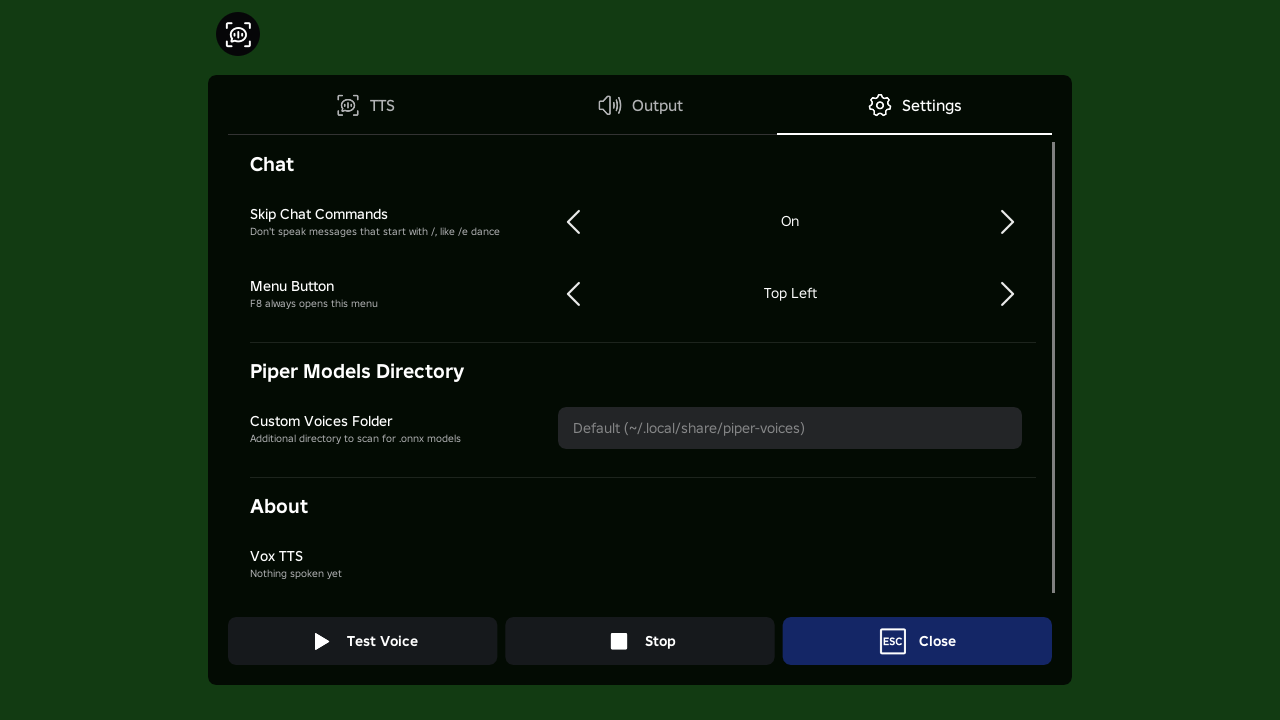
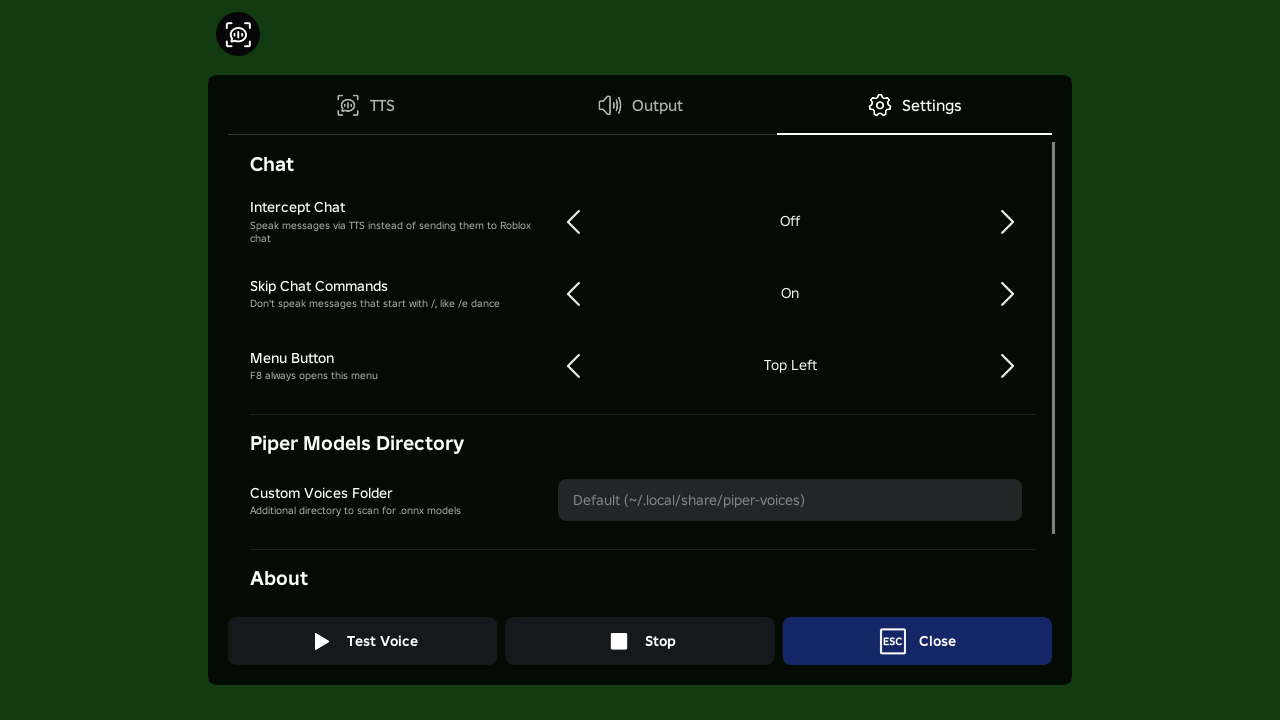
feat: add Intercept Chat option to speak via TTS without sending text

diff --git a/src/sdl_hooks.cc b/src/sdl_hooks.cc
@@ -40,28 +40,50 @@ void OnSent(const std::string& message) {
   Say(message);
 }
 
-void ObserveChat(const SDL_Event& e) {
+bool g_intercepting_return = false;
+
+void ObserveChat(SDL_Event& e) {
   if (!g_chat.active()) return;
   if (e.type == SDL_EVENT_TEXT_INPUT && e.text.text != nullptr) {
     g_chat.Text(e.text.text);
     return;
   }
-  if (e.type != SDL_EVENT_KEY_DOWN) return;
-  const bool ctrl = (e.key.mod & SDL_KMOD_CTRL) != 0;
-  std::optional<std::string> sent;
-  switch (e.key.key) {
-    case SDLK_RETURN:
-    case SDLK_KP_ENTER: sent = g_chat.Key(ChatKey::kReturn, ctrl); break;
-    case SDLK_ESCAPE: g_chat.Key(ChatKey::kEscape, ctrl); break;
-    case SDLK_BACKSPACE: g_chat.Key(ChatKey::kBackspace, ctrl); break;
-    case SDLK_DELETE: g_chat.Key(ChatKey::kDelete, ctrl); break;
-    case SDLK_LEFT: g_chat.Key(ChatKey::kLeft, ctrl); break;
-    case SDLK_RIGHT: g_chat.Key(ChatKey::kRight, ctrl); break;
-    case SDLK_HOME: g_chat.Key(ChatKey::kHome, ctrl); break;
-    case SDLK_END: g_chat.Key(ChatKey::kEnd, ctrl); break;
-    default: break;
+  if (e.type != SDL_EVENT_KEY_DOWN && e.type != SDL_EVENT_KEY_UP) return;
+
+  const Config cfg = GetConfig();
+
+  if (e.type == SDL_EVENT_KEY_DOWN) {
+    const bool ctrl = (e.key.mod & SDL_KMOD_CTRL) != 0;
+    std::optional<std::string> sent;
+    switch (e.key.key) {
+      case SDLK_RETURN:
+      case SDLK_KP_ENTER: sent = g_chat.Key(ChatKey::kReturn, ctrl); break;
+      case SDLK_ESCAPE: g_chat.Key(ChatKey::kEscape, ctrl); break;
+      case SDLK_BACKSPACE: g_chat.Key(ChatKey::kBackspace, ctrl); break;
+      case SDLK_DELETE: g_chat.Key(ChatKey::kDelete, ctrl); break;
+      case SDLK_LEFT: g_chat.Key(ChatKey::kLeft, ctrl); break;
+      case SDLK_RIGHT: g_chat.Key(ChatKey::kRight, ctrl); break;
+      case SDLK_HOME: g_chat.Key(ChatKey::kHome, ctrl); break;
+      case SDLK_END: g_chat.Key(ChatKey::kEnd, ctrl); break;
+      default: break;
+    }
+    if (sent) {
+      const bool is_command = cfg.skip_commands && !sent->empty() && (*sent)[0] == '/';
+      OnSent(*sent);
+      if (cfg.enabled && cfg.intercept_chat && !is_command) {
+        g_intercepting_return = true;
+        // Transform Return into Escape so Roblox discards the message instead of sending it to text chat
+        e.key.key = SDLK_ESCAPE;
+        e.key.scancode = SDL_SCANCODE_ESCAPE;
+      }
+    }
+  } else if (e.type == SDL_EVENT_KEY_UP) {
+    if (g_intercepting_return && (e.key.key == SDLK_RETURN || e.key.key == SDLK_KP_ENTER)) {
+      g_intercepting_return = false;
+      e.key.key = SDLK_ESCAPE;
+      e.key.scancode = SDL_SCANCODE_ESCAPE;
+    }
   }
-  if (sent) OnSent(*sent);
 }
 
 // ---------------------------------------------------------------------------
@@ -137,7 +159,7 @@ void TrackWindow(SDL_WindowID id) {
 }
 
 // Returns true when the event belongs to us and must not reach Nightcap.
-bool Filter(const SDL_Event& e) {
+bool Filter(SDL_Event& e) {
   switch (e.type) {
     case SDL_EVENT_KEY_DOWN:
     case SDL_EVENT_KEY_UP: TrackWindow(e.key.windowID); break;

diff --git a/tests/test_inprocess.py b/tests/test_inprocess.py
@@ -158,12 +158,12 @@ class OverlayTest(unittest.TestCase):
             self.assertGreater(tab_underline_y(early) or 10**6, tab_underline_y(settled))
 
 
-def capture(tmp: Path, keep_mic: bool, message="Hello there, how are you?", engine=None):
+def capture(tmp: Path, keep_mic: bool, message="Hello there, how are you?", engine=None, intercept_chat=False):
     # The mic plays a 300 Hz tone so "keep my microphone" is observable.
     tone = b"".join(struct.pack("<h", int(8000 * math.sin(2 * math.pi * 300 * i / 48000)))
                     for i in range(48000 * 8))
     (tmp / "micin.raw").write_bytes(tone)
-    cfg_data = {"enabled": True, "output": "vc", "mix_real_mic": keep_mic}
+    cfg_data = {"enabled": True, "output": "vc", "mix_real_mic": keep_mic, "intercept_chat": intercept_chat}
     if engine is not None:
         cfg_data["engine"] = engine
     config = json.dumps(cfg_data)
@@ -208,6 +208,22 @@ class MicTest(unittest.TestCase):
             r, audio = capture(Path(t), keep_mic=False, message="/e dance")
             self.assertNotIn("speaking a chat message", r.stderr)
             self.assertLess(level(audio, 1.3, 3.0), 0.001)
+
+    def test_intercept_chat_cancels_text_and_plays_speech(self):
+        with tempdir() as t:
+            r, audio = capture(Path(t), keep_mic=False, message="Intercepted voice", intercept_chat=True)
+            self.assertEqual(r.returncode, 0, r.stderr)
+            self.assertIn("speaking a chat message", r.stderr)
+            self.assertIn("driver received key: 27", r.stderr, "Return transformed into Escape")
+            self.assertNotIn("driver received key: 13", r.stderr)
+            self.assertGreater(level(audio, 1.3, 3.0), 0.05, "speech is in the mic stream")
+
+    def test_normal_chat_sends_return_key(self):
+        with tempdir() as t:
+            r, audio = capture(Path(t), keep_mic=False, message="Normal voice", intercept_chat=False)
+            self.assertEqual(r.returncode, 0, r.stderr)
+            self.assertIn("speaking a chat message", r.stderr)
+            self.assertIn("driver received key: 13", r.stderr, "Return key reaches the game")
 
 
 if __name__ == "__main__":

diff --git a/src/ui.cc b/src/ui.cc
@@ -714,7 +714,11 @@ void OutputPage(Config& cfg) {
 
 void SettingsPage(Config& cfg) {
   Header("Chat", true);
-  Row row = BeginRow("Skip Chat Commands", "Don't speak messages that start with /, like /e dance");
+  Row row = BeginRow("Intercept Chat", "Speak messages via TTS instead of sending them to Roblox chat");
+  Switch(row, &cfg.intercept_chat);
+  EndRow(row);
+
+  row = BeginRow("Skip Chat Commands", "Don't speak messages that start with /, like /e dance");
   Switch(row, &cfg.skip_commands);
   EndRow(row);
 
@@ -743,7 +747,7 @@ void SettingsPage(Config& cfg) {
 }
 
 bool Same(const Config& a, const Config& b) {
-  return a.enabled == b.enabled && a.output == b.output && a.engine == b.engine &&
+  return a.enabled == b.enabled && a.intercept_chat == b.intercept_chat && a.output == b.output && a.engine == b.engine &&
          a.piper_model == b.piper_model && a.piper_dir == b.piper_dir &&
          a.piper_speed == b.piper_speed && a.espeak_voice == b.espeak_voice &&
          a.espeak_speed == b.espeak_speed && a.espeak_pitch == b.espeak_pitch &&

diff --git a/src/config.cc b/src/config.cc
@@ -135,6 +135,7 @@ Config Config::Load() {
     if (it != v.end()) *out = it->second == "true";
   };
   flag("enabled", &c.enabled);
+  flag("intercept_chat", &c.intercept_chat);
   str("output", &c.output);
   str("engine", &c.engine);
 
@@ -177,6 +178,7 @@ bool Config::Save() const {
   };
   std::string json = "{\n";
   json += "  \"enabled\": " + std::string(enabled ? "true" : "false") + ",\n";
+  json += "  \"intercept_chat\": " + std::string(intercept_chat ? "true" : "false") + ",\n";
   json += "  \"output\": " + Quote(output) + ",\n";
   json += "  \"engine\": " + Quote(engine) + ",\n";
   json += "  \"piper_model\": " + Quote(piper_model) + ",\n";

diff --git a/tests/mic_driver.cc b/tests/mic_driver.cc
@@ -73,7 +73,12 @@ int main(int argc, char** argv) {
     }
     SDL_Event e;
     while (SDL_PollEvent(&e)) {
-      if (e.type == SDL_EVENT_KEY_DOWN && e.key.key == SDLK_RETURN) SDL_StopTextInput(window);
+      if (e.type == SDL_EVENT_KEY_DOWN) {
+        std::fprintf(stderr, "driver received key: %d\n", static_cast<int>(e.key.key));
+        if (e.key.key == SDLK_RETURN || e.key.key == SDLK_ESCAPE) {
+          SDL_StopTextInput(window);
+        }
+      }
     }
     SDL_Delay(5);
   }

diff --git a/src/config.h b/src/config.h
@@ -10,6 +10,7 @@ namespace nac {
 
 struct Config {
   bool enabled = true;
+  bool intercept_chat = false;  // speak via TTS without sending text to game chat
   std::string output = "vc";  // "vc", "both" or "local"
   std::string engine = "espeak";  // "espeak", "piper" or "animalese"
 

diff --git a/docs/architecture.md b/docs/architecture.md
@@ -41,8 +41,9 @@ Roblox chat text boxes open on keystroke (`/`) and commit on Enter.
 - `ChatTracker` mirrors the active Roblox text input field:
   - Tracks character insertions, deletions, cursor navigation, home/end, and word jumps.
   - On `Return` / `Enter`, the completed message buffer is emitted.
-  - If the message begins with `/` (and `skip_commands` is enabled in config), the message is ignored (e.g. `/e dance`, `/w user`).
+  - If the message begins with `/` (and `skip_commands` is enabled in config), the message is ignored by TTS and passed through to Roblox (e.g. `/e dance`, `/w user`).
   - Otherwise, the message is dispatched to the speech synthesis worker thread via `nac::Say()`.
+  - **Chat Interception (`intercept_chat`)**: When enabled, the `SDLK_RETURN` key event is dynamically transformed into `SDLK_ESCAPE` before reaching Roblox. This causes Roblox to close the chat box and discard the draft without sending it into the game chat, while Vox TTS speaks the message through TTS in voice chat.
 
 ### B. Microphone Audio Injection (`src/speech.cc`)
 - Nightcap opens the microphone capture stream via `SDL_OpenAudioDeviceStream()`.

diff --git a/docs/configuration.md b/docs/configuration.md
@@ -18,6 +18,7 @@ Below is an example configuration file with default values:
 ```json
 {
   "enabled": true,
+  "intercept_chat": false,
   "output": "vc",
   "engine": "piper",
 
@@ -52,6 +53,7 @@ Below is an example configuration file with default values:
 | Field | Type | Default | Description |
 | --- | --- | --- | --- |
 | `enabled` | boolean | `true` | Master switch for Text-to-Speech synthesis. |
+| `intercept_chat` | boolean | `false` | When true, chat messages are spoken via TTS and intercepted so they are not sent to Roblox text chat. |
 | `output` | string | `"vc"` | Routing destination for speech audio. Options: `"vc"` (Voice Chat only), `"both"` (Voice Chat and local speakers), `"local"` (Speakers only). |
 | `engine` | string | `"piper"` | Active speech engine: `"piper"` (Piper Neural), `"espeak"` (eSpeak-NG), or `"animalese"` (Animal Crossing). |
 | `skip_commands` | boolean | `true` | If true, messages starting with `/` (e.g. `/e dance`, `/w player`) are ignored and not spoken aloud. |

diff --git a/README.md b/README.md
@@ -120,6 +120,7 @@ Press **F8** or click the top-bar button to open the menu.
 </p>
 
 3. **Settings:**
+   * **Intercept Chat:** Speak messages via TTS instead of sending them to Roblox text chat.
    * **Skip Chat Commands:** Automatically ignore commands starting with `/` (e.g. `/e dance`).
    * **Menu Button Position:** Top Left, Top Right, or Hidden.
    * **Custom Piper Voices Folder:** Additional directory to scan for `.onnx` models.
